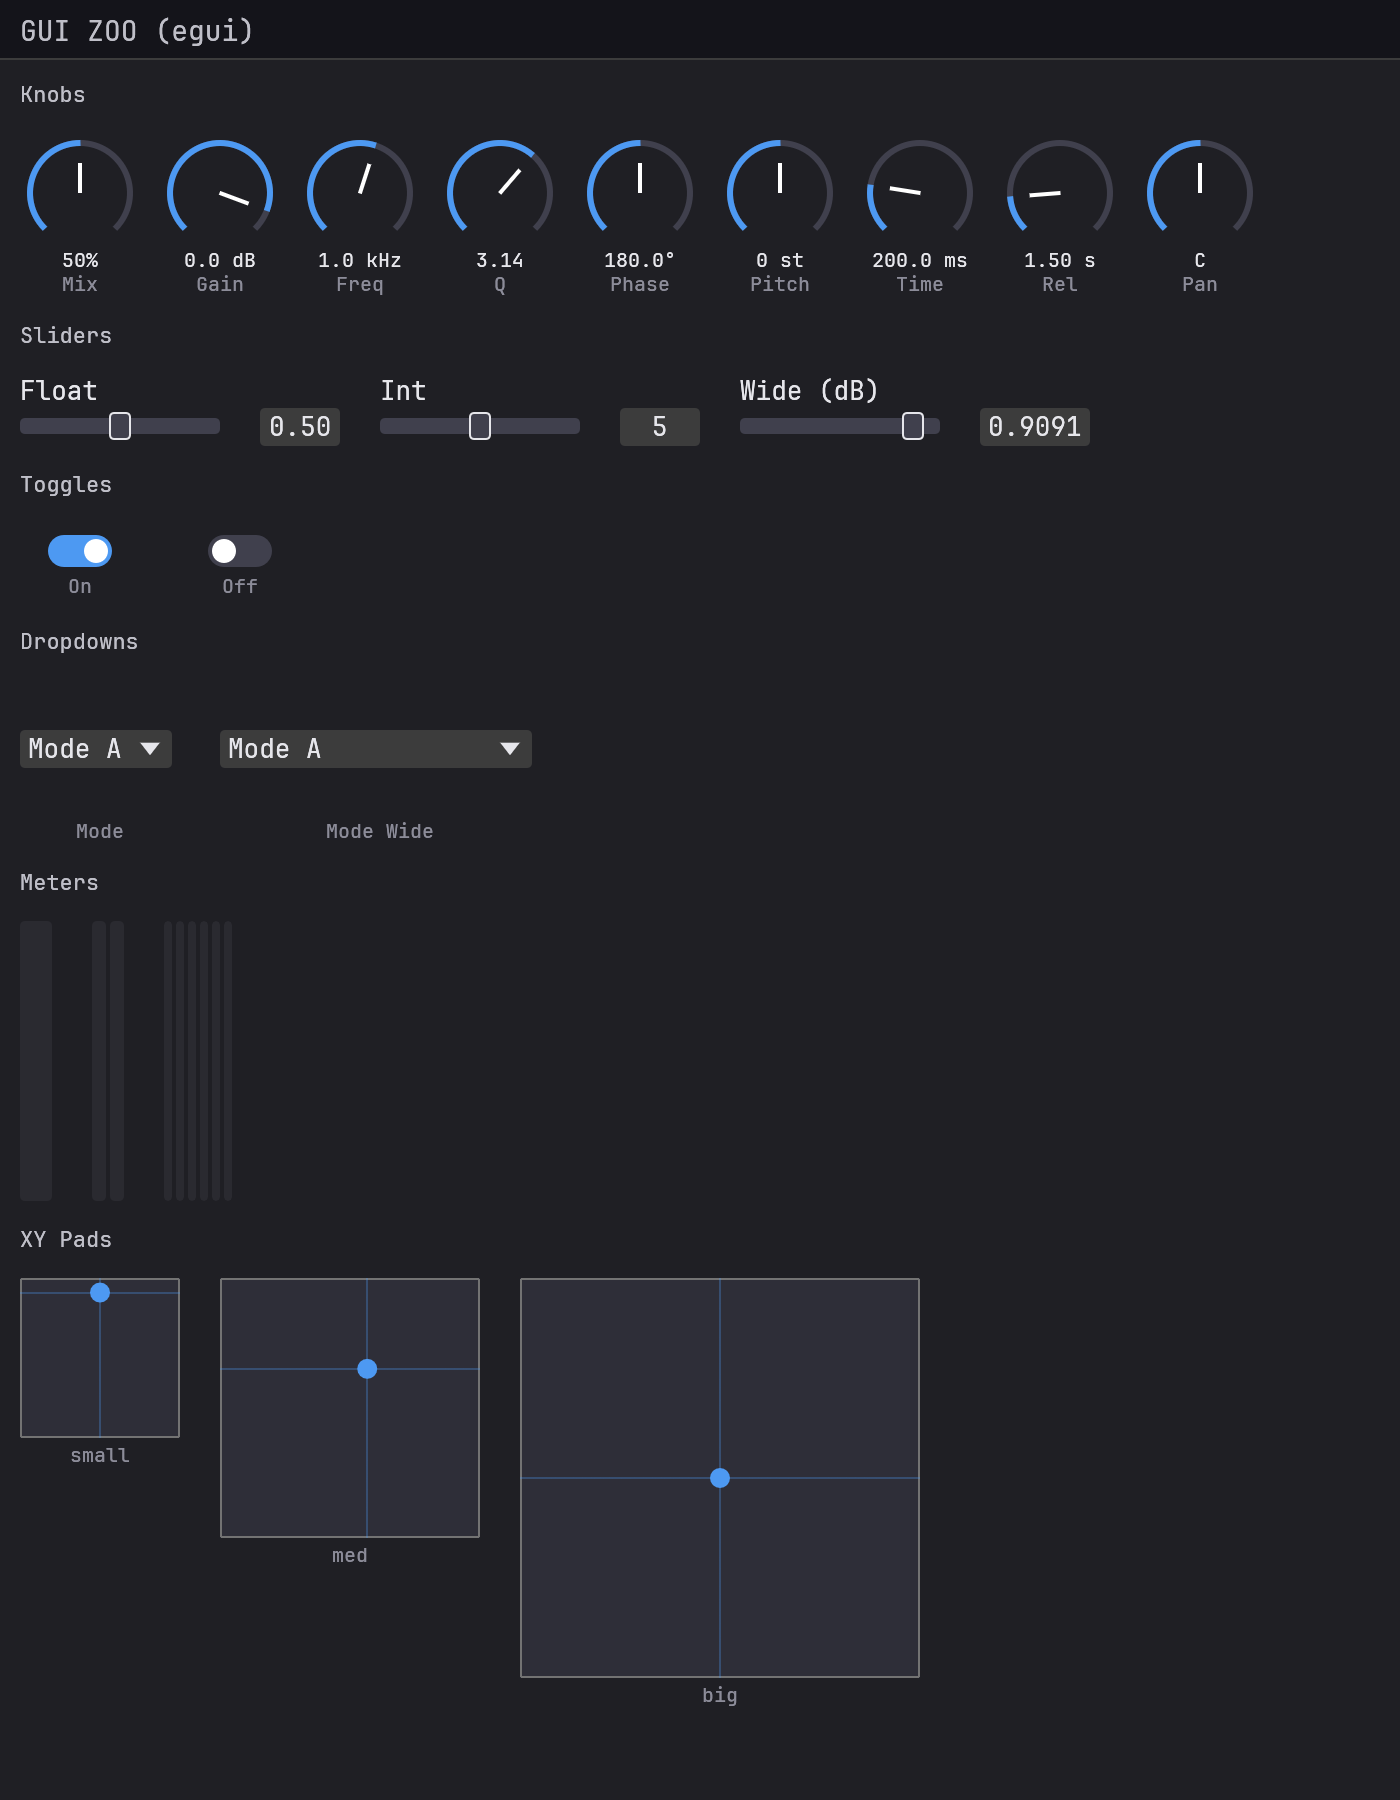
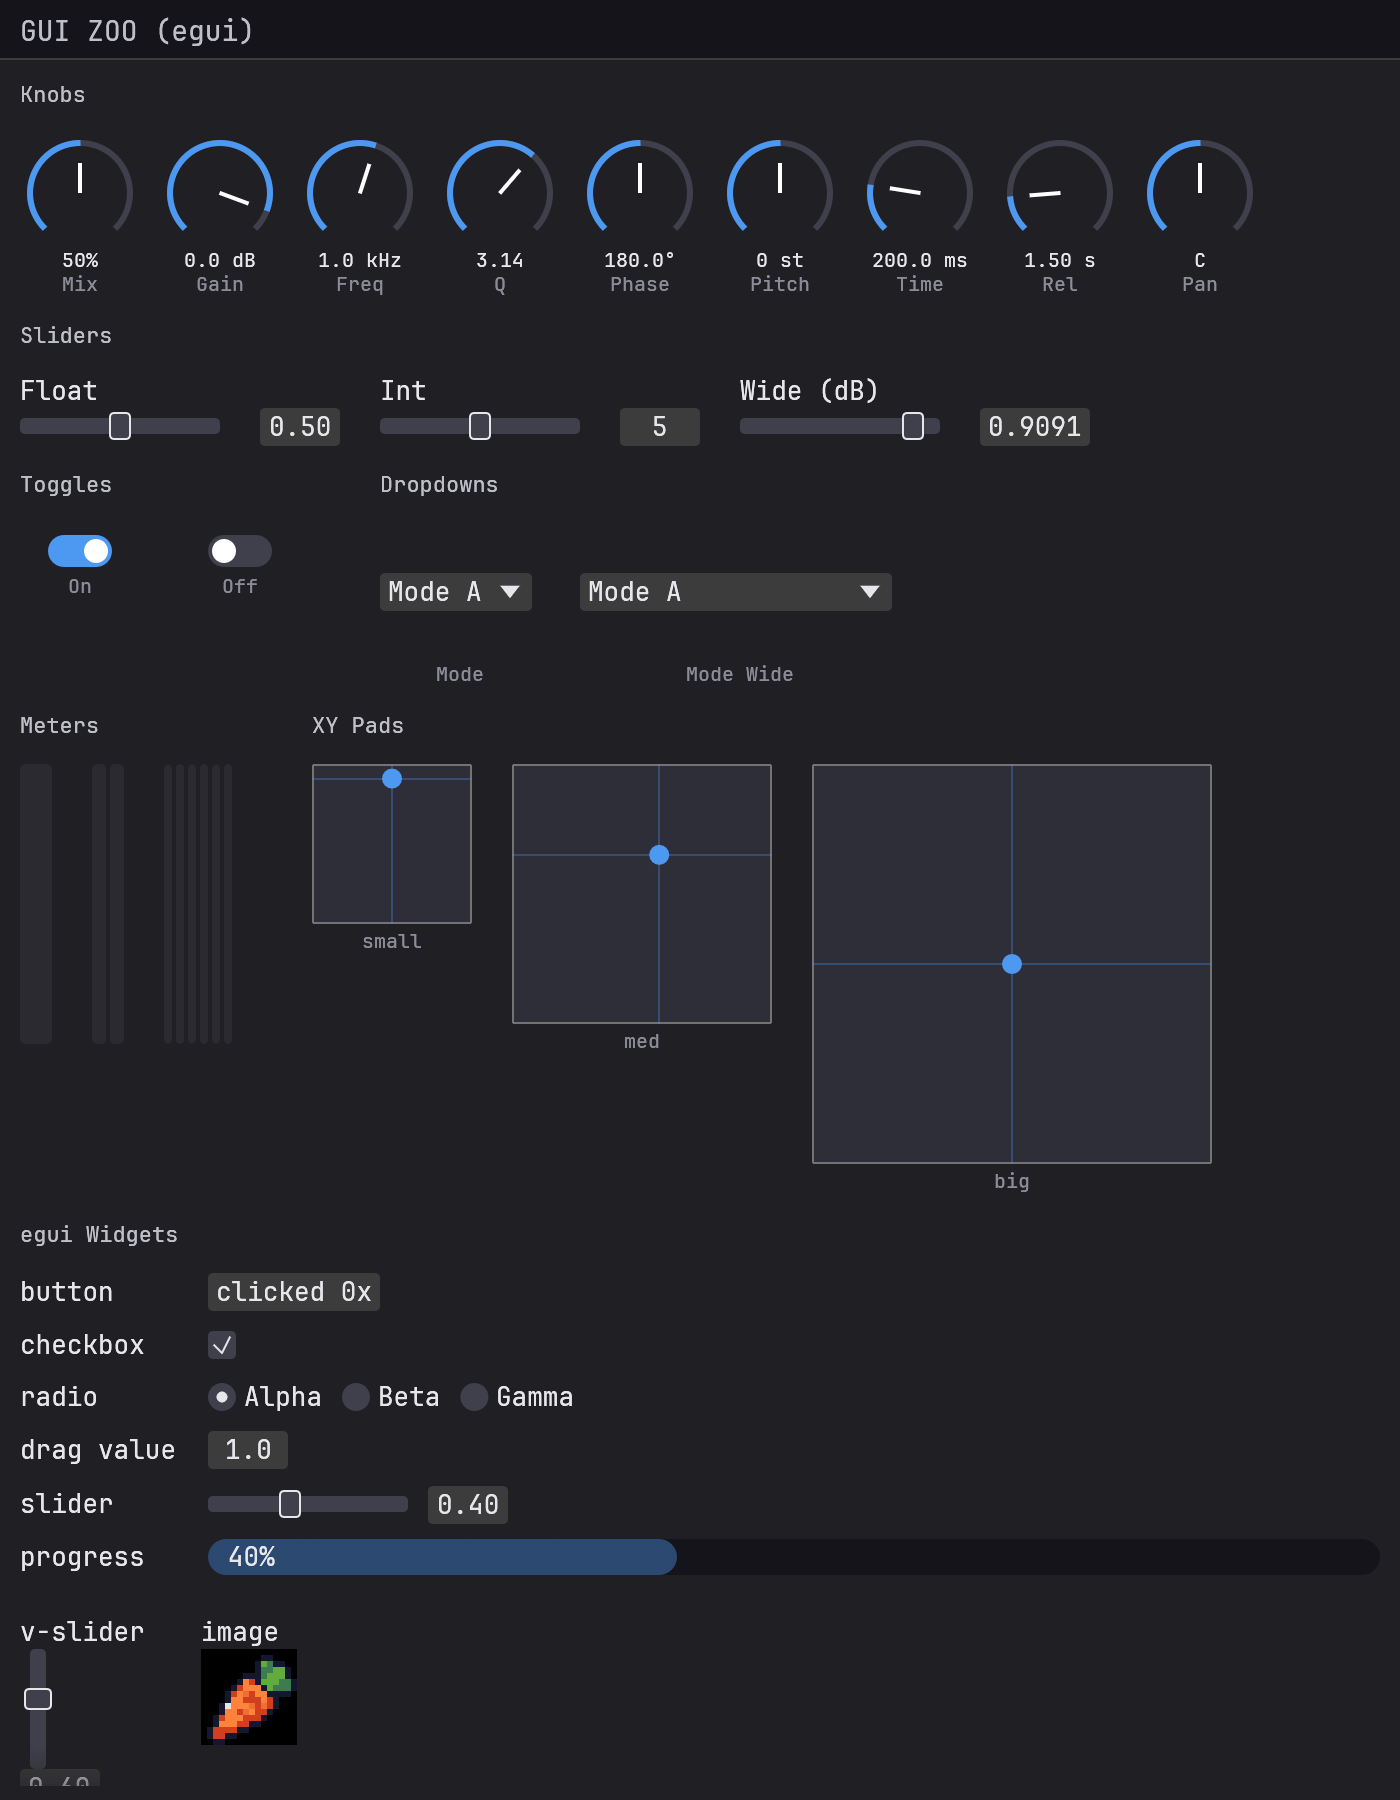
Update for 0.63.0

diff --git a/src/content/docs/changelog.md b/src/content/docs/changelog.md
@@ -2,6 +2,11 @@
 
 Notable changes per release.
 
+## 0.63.0
+
+- **iced editors receive keyboard input.** `truce-iced` now forwards native key events into the iced widget tree (a focused `text_input` or a custom key-capture `Widget` reading `physical_key` / logical key), and `IcedPlugin::subscription()` (e.g. `iced::keyboard::listen`, `iced::event::listen_with`) now fires via an event pump. Keys arrive when the host grants the editor window focus. ([#134](https://github.com/truce-audio/truce/discussions/134))
+- **`gui-zoo` examples (iced + egui) demo native framework widgets** - button, checkbox, radio, slider, progress bar, image, etc. - plus a keyboard section, alongside the truce param widgets.
+
 ## 0.62.0
 
 - **AU v3 and standalone are one macOS app.** A plugin with a standalone bin ships a single `{name}.app` that is both the AU v3 container and the playable standalone host; the separate Standalone format collapses into it and the installer choice reads "AU3 + Standalone". Plugins without a standalone bin still ship the appex, in an informational stub app.
